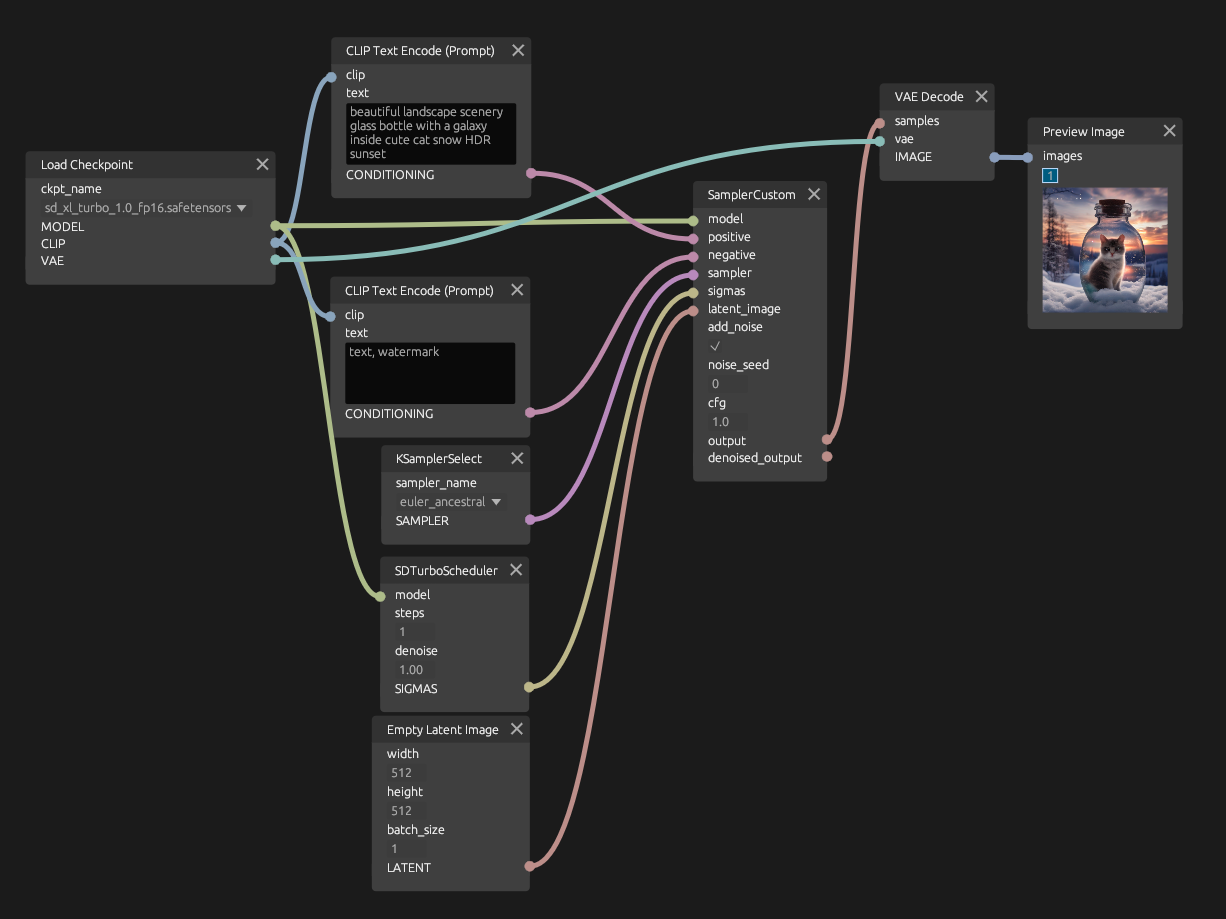
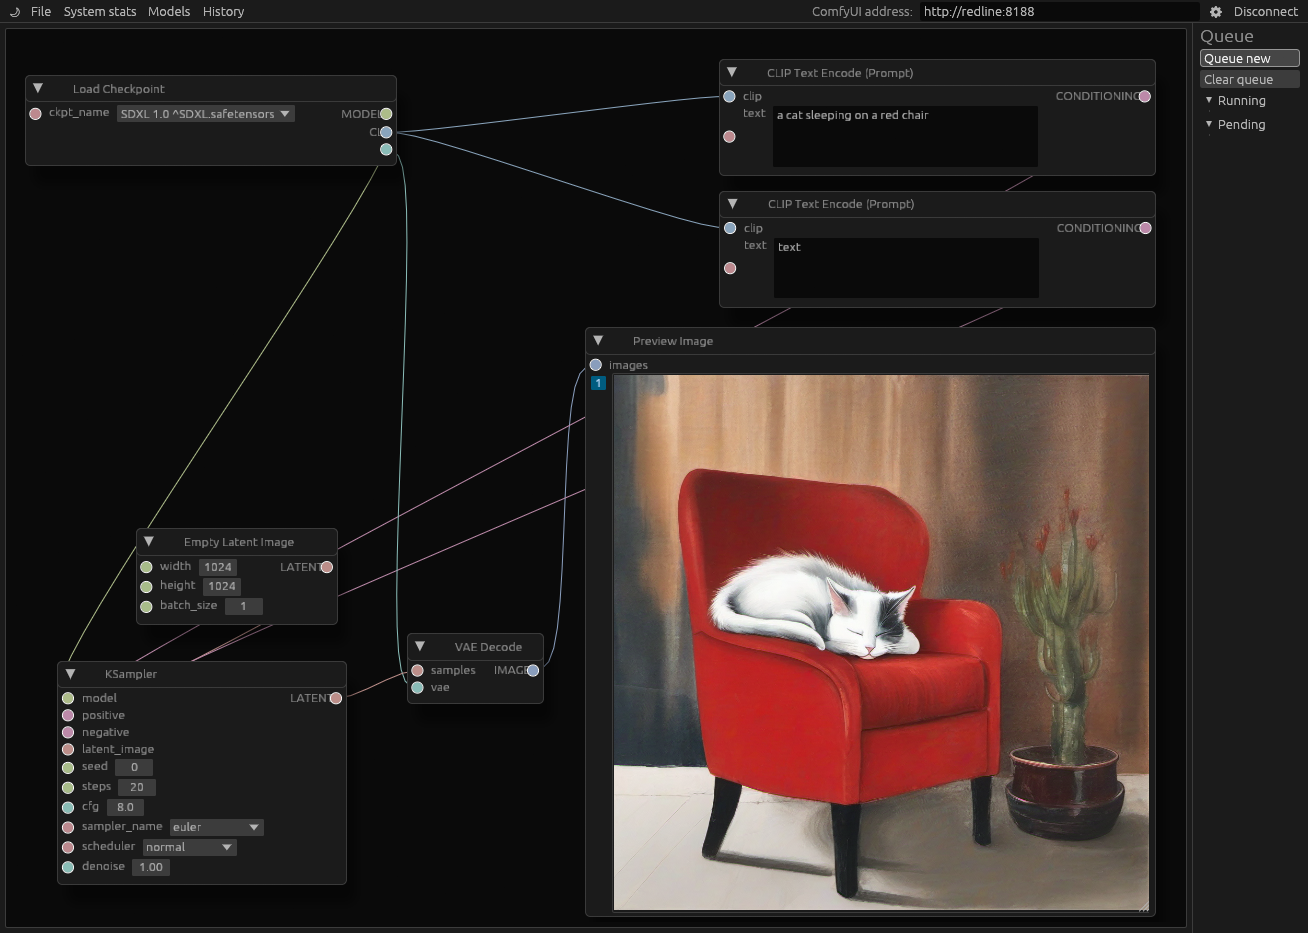
docs: refresh READMEs and screenshot (closes #17)
- fix stale egui_node_graph2 -> egui-snarl references in the top-level and
  node_graph READMEs
- expand the top-level README into a full workspace index (all libraries and
  binaries)
- add READMEs for rucomfyui_workflow_converter and rucomfyui_mlua
- update the node graph screenshot

diff --git a/crates/rucomfyui_mlua/README.md b/crates/rucomfyui_mlua/README.md
@@ -1,0 +1,50 @@
+# `rucomfyui_mlua`
+
+Lua bindings for [`rucomfyui`](../rucomfyui), exposing a fluent ComfyUI workflow
+builder to Lua. Designed to be embedded in Rust applications using
+[`mlua`](https://crates.io/crates/mlua).
+
+## Usage
+
+Add this to your `Cargo.toml`'s `[dependencies]`:
+
+```toml
+rucomfyui_mlua = { git = "https://github.com/philpax/rucomfyui" }
+```
+
+Install the module into a Lua state, then build and execute workflows from Lua:
+
+```rust,ignore
+use mlua::Lua;
+use rucomfyui_mlua::{IntegrationConfig, module};
+
+let lua = Lua::new();
+let comfy = module(&lua, &IntegrationConfig::all())?;
+lua.globals().set("comfy", comfy)?;
+
+lua.load(r#"
+    local client = comfy.client("http://127.0.0.1:8188")
+    local g = comfy.graph(client:get_object_info())
+    local c = g:CheckpointLoaderSimple("sd_xl_base_1.0.safetensors")
+    local preview = g:PreviewImage(g:VAEDecode {
+        vae = c.vae,
+        samples = g:KSampler {
+            model = c.model, seed = 0, steps = 20, cfg = 8.0,
+            sampler_name = "euler", scheduler = "normal",
+            positive = g:CLIPTextEncode { text = "a cat", clip = c.clip },
+            negative = g:CLIPTextEncode { text = "", clip = c.clip },
+            latent_image = g:EmptyLatentImage { width = 1024, height = 1024, batch_size = 1 },
+            denoise = 1.0,
+        }
+    })
+    local result = client:execute(g)
+    for i, image in ipairs(result[preview].images) do
+        -- image is raw bytes
+    end
+"#).exec()?;
+```
+
+[`IntegrationConfig`] controls which client methods are exposed to Lua (see
+`ClientConfig::all`/`read_only`/`execute`). See
+[`rucomfyui_lua_script_runner`](../../bin/rucomfyui_lua_script_runner) for a
+runnable example.

diff --git a/README.md b/README.md
@@ -1,19 +1,26 @@
 # `rucomfyui`
 
-A Rust client for ComfyUI with an emphasis on type safety and ergonomics.
-
-## `rucomfyui`
-
-The client library. See [the README](./crates/rucomfyui/README.md).
-
-## `rucomfyui_node_graph`
+A Rust client for ComfyUI with an emphasis on type safety and ergonomics, plus a
+set of crates built on top of it for converting, building and visualising workflows.
 
 ![A screenshot of the node graph showing a SDXL Turbo workflow](crates/rucomfyui_node_graph/rucomfyui_node_graph.png)
 
-A recreation of the ComfyUI node graph in Rust using `egui`, `egui_node_graph2` and `rucomfyui`.
-See [the README](./crates/rucomfyui_node_graph/README.md).
+## Libraries
 
-## `rucomfyui_node_graph_demo`
+- [`rucomfyui`](./crates/rucomfyui) — the client library. Typed node definitions,
+  workflow construction, queueing, and (optionally) live progress over WebSocket.
+- [`rucomfyui_node_graph`](./crates/rucomfyui_node_graph) — a recreation of the
+  ComfyUI node graph in Rust using `egui` and `egui-snarl`.
+- [`rucomfyui_workflow_converter`](./crates/rucomfyui_workflow_converter) — converts
+  ComfyUI API workflows (JSON) to typed Rust or Lua code.
+- [`rucomfyui_mlua`](./crates/rucomfyui_mlua) — Lua bindings for `rucomfyui`,
+  enabling workflow construction from Lua scripts.
 
-A demo application for the `rucomfyui_node_graph` crate.
-See [the README](./bin/rucomfyui_node_graph_demo/README.md).
+## Binaries
+
+- [`rucomfyui_node_graph_demo`](./bin/rucomfyui_node_graph_demo) — a demo app for the
+  node graph editor: connect to ComfyUI, load/save workflows, queue, and view results.
+- [`rucomfyui_workflow_converter_cli`](./bin/rucomfyui_workflow_converter) — a CLI
+  wrapping `rucomfyui_workflow_converter`.
+- [`rucomfyui_lua_script_runner`](./bin/rucomfyui_lua_script_runner) — runs Lua
+  workflow scripts against a ComfyUI server using `rucomfyui_mlua`.

diff --git a/crates/rucomfyui_workflow_converter/README.md b/crates/rucomfyui_workflow_converter/README.md
@@ -1,0 +1,28 @@
+# `rucomfyui_workflow_converter`
+
+Converts ComfyUI API workflows (JSON) to typed Rust or Lua code.
+
+## Usage
+
+Add this to your `Cargo.toml`'s `[dependencies]`:
+
+```toml
+rucomfyui = { git = "https://github.com/philpax/rucomfyui" }
+rucomfyui_workflow_converter = { git = "https://github.com/philpax/rucomfyui" }
+```
+
+Given an API workflow (as exported by ComfyUI's "Save (API Format)") and the
+server's object info, convert it to Rust or Lua:
+
+```rust,ignore
+let client = rucomfyui::Client::new("http://127.0.0.1:8188");
+let object_info = client.get_object_info().await?;
+let workflow_json = std::fs::read_to_string("workflow.json")?;
+
+let rust = rucomfyui_workflow_converter::convert_to_rust(&workflow_json, &object_info)?;
+let lua = rucomfyui_workflow_converter::convert_to_lua(&workflow_json, &object_info)?;
+```
+
+The `rust` and `lua` features (both enabled by default) gate the respective
+converters. See [`rucomfyui_workflow_converter_cli`](../../bin/rucomfyui_workflow_converter)
+for a command-line wrapper.

diff --git a/crates/rucomfyui_node_graph/README.md b/crates/rucomfyui_node_graph/README.md
@@ -1,6 +1,6 @@
 # `rucomfyui_node_graph`
 
-A recreation of the ComfyUI node graph in Rust using `egui`, `egui_node_graph2` and `rucomfyui`.
+A recreation of the ComfyUI node graph in Rust using `egui`, `egui-snarl` and `rucomfyui`.
 
 ![A screenshot of the node graph showing a SDXL Turbo workflow](rucomfyui_node_graph.png)
 